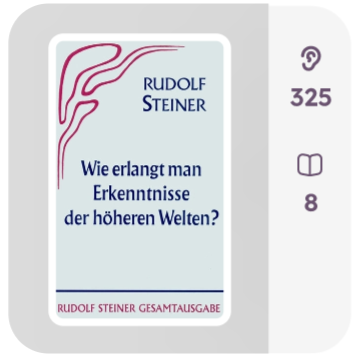
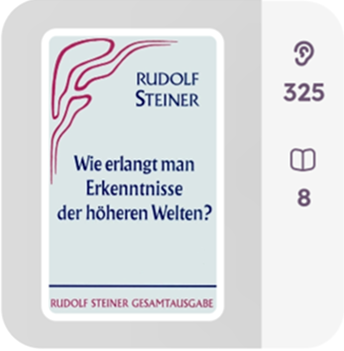
first commit

diff --git a/discover.html b/discover.html
@@ -64,11 +64,11 @@
       align-items: flex-start;
       gap: 15px; /* space between cover & text area */
     }
-    .book-cover-image {
-      width: 250px;
-      height: 350px;
+    .book-cover {
+      width: 150px;
+      height: 250px;
       object-fit: cover;
-      border-radius: 5px;
+      border-radius: 16px;
       flex-shrink: 0;
     }
     .book-info {
@@ -100,6 +100,9 @@
       font-size: 14px;
       cursor: pointer;
       transition: background-color 0.2s ease;
+      margin-top: 80px;
+      width: 100%;
+      font-size: 13px;
     }
     .listen-to-book-button:hover {
       background-color: #7d3cb1;
@@ -144,7 +147,7 @@
             <img 
             src="book-cover.png" 
             alt="Book Cover" 
-            class="book-cover-image"
+            class="book-cover"
             />
                   
         <div class="book-info">

diff --git a/index.html b/index.html
@@ -89,10 +89,10 @@
       margin-bottom: 10px;
     }
     .book-cover1 {
-      /* width: 250px;
-      height: 350px; */
+      width: 312px;
+      height: 350px;
       object-fit: cover;
-      border-radius: 5px;
+      border-radius: 10px;
       margin-bottom: 10px;
     }
     .book-stats {
@@ -295,7 +295,7 @@
     <!-- Reading Session Nav Item -->
     <div class="nav-item reading-session">
       <div class="icon">📖</div>
-      <p>Reading session</p>
+      <p>Buch vorlesen</p>
     </div>
   </footer>
 </body>

diff --git a/library.html b/library.html
@@ -232,7 +232,7 @@
     <!-- Reading Session Nav Item -->
     <div class="nav-item reading-session">
       <div class="icon">📖</div>
-      <p>Reading session</p>
+      <p>Buch vorlesen</p>
     </div>
   </footer>
 
